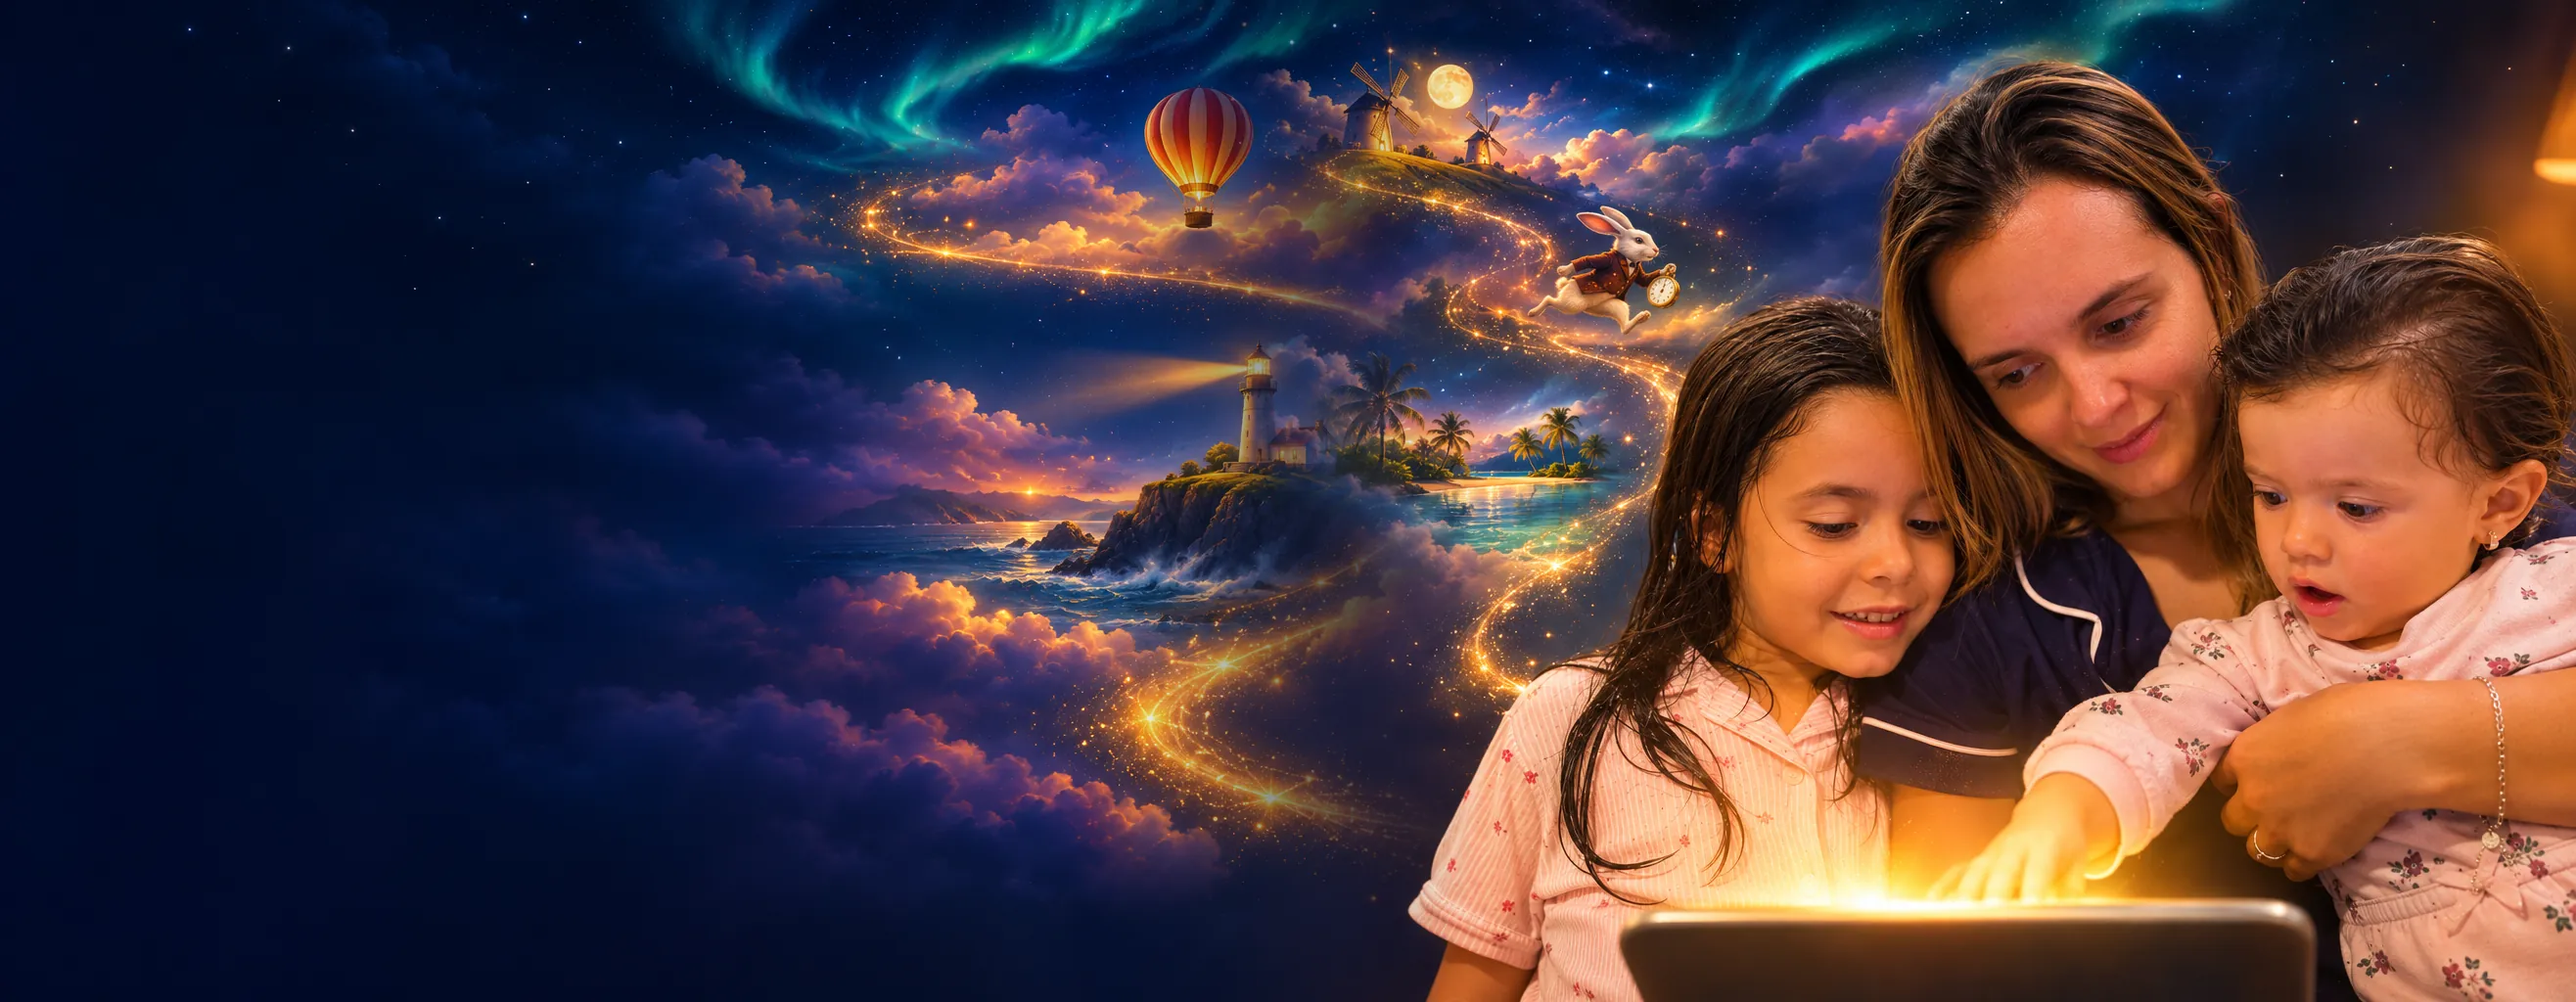
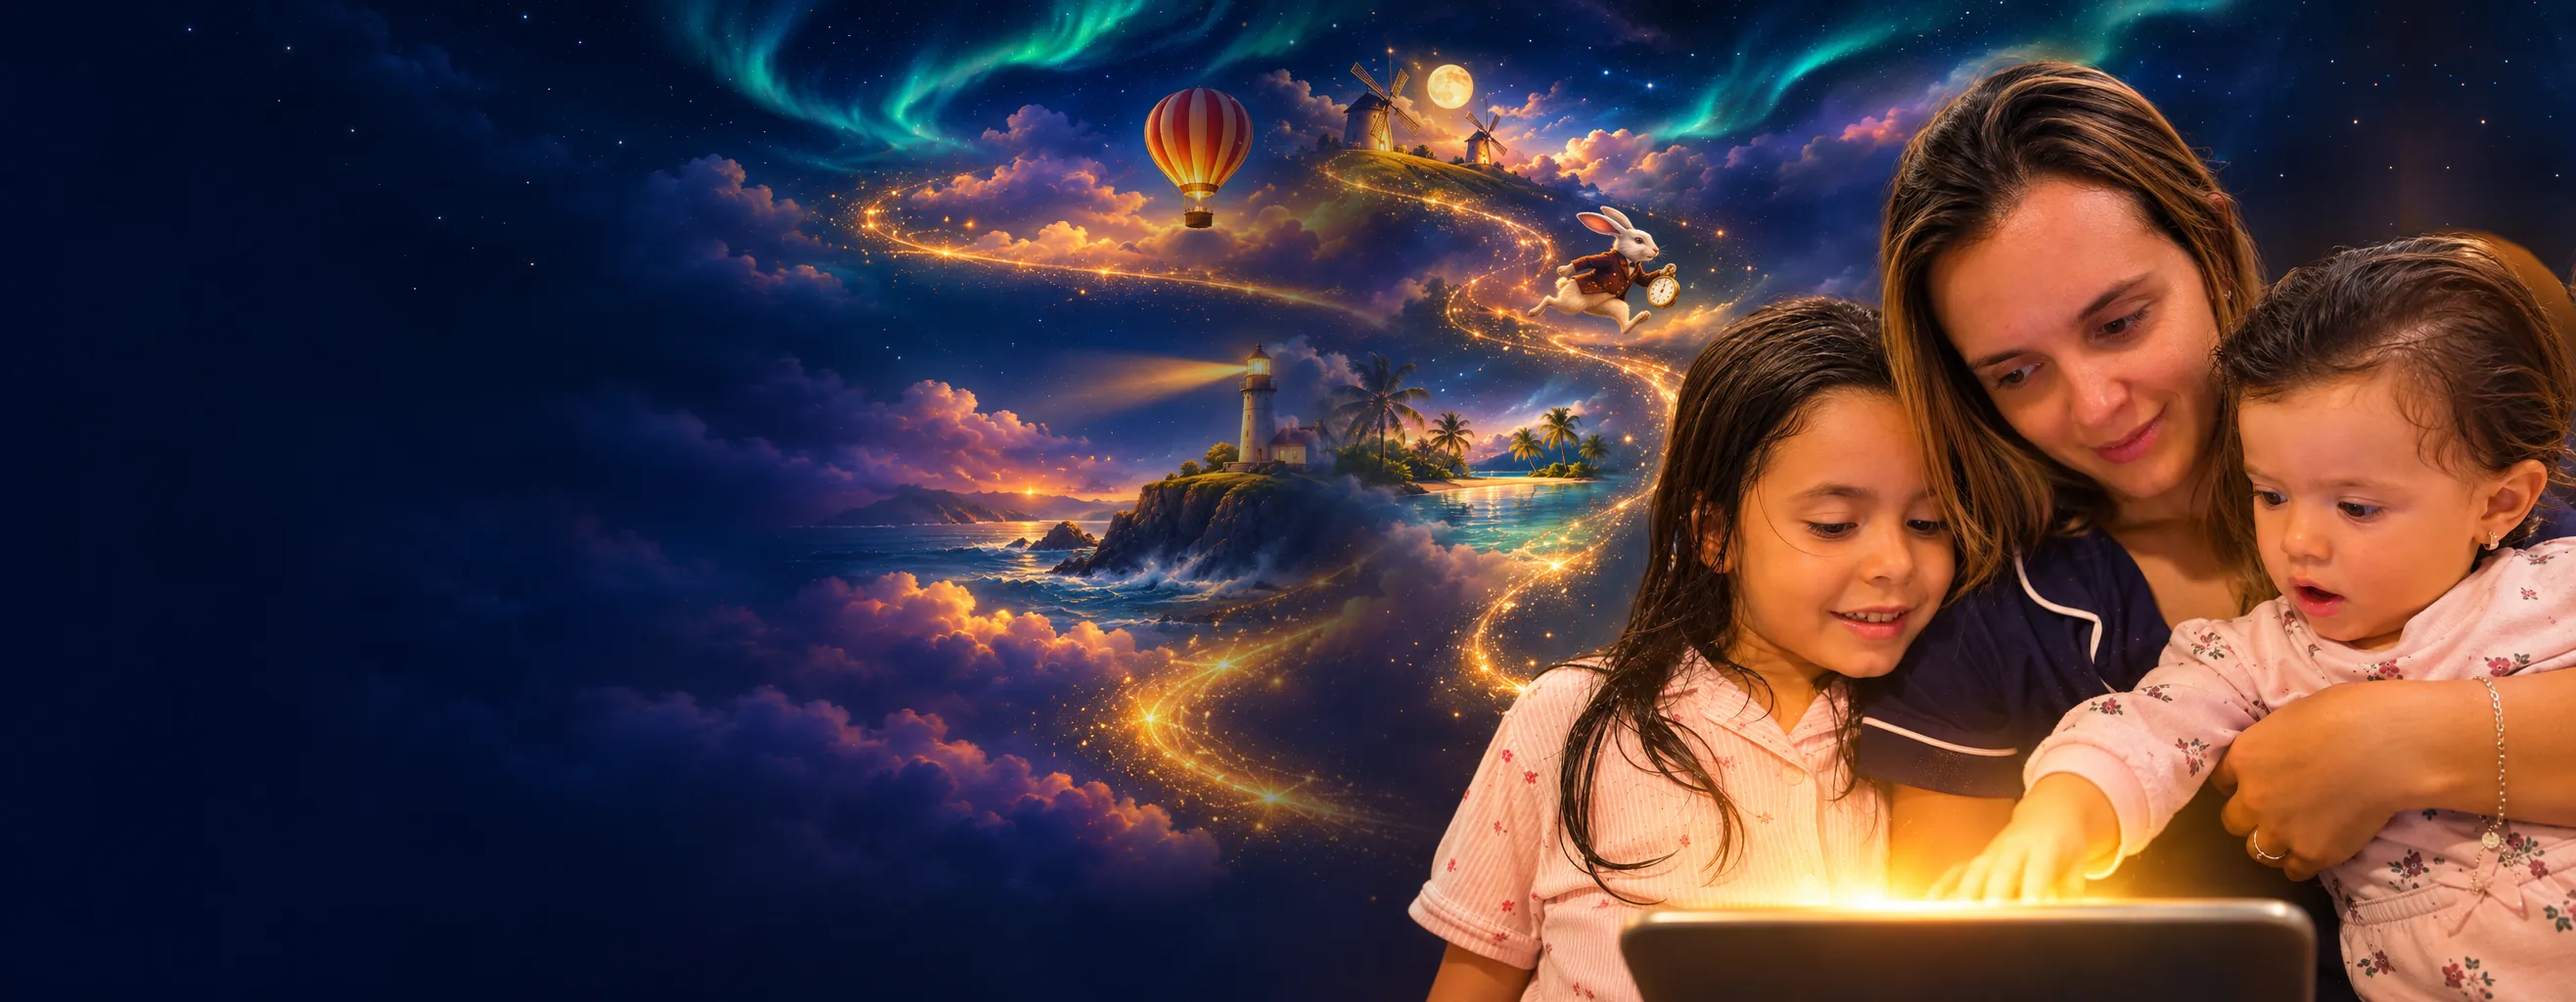
Landing: rodapé sem o abajur aceso sobre a cabeça da Maria (#147)
O canto de cima à direita (abajur e brilho laranja) foi trocado por céu estrelado
da própria imagem, seguindo o contorno do cabelo.

Claude-Session: https://claude.ai/code/session_01KvAZ7XPPHCjHbd3L7L9vJR

Changed region(s): [[0.9347, 0.0, 1.0, 0.3125]]

diff --git a/landing/index.html b/landing/index.html
@@ -807,7 +807,7 @@ details[open] summary::after{transform:rotate(180deg)}
 </section>
 
 <footer class="final">
-  <img loading="lazy" decoding="async" width="2632" height="1024" src="../images/hero/rodape-familia.webp?v=2" srcset="../images/hero/rodape-familia-1200.webp?v=2 1400w, ../images/hero/rodape-familia.webp?v=2 2632w" sizes="100vw" alt="Mãe e duas filhas lendo juntas no tablet à noite; da tela sobe um rio de luz com moinhos, um coelho com relógio, uma lagoa com palmeiras, um farol e um balão">
+  <img loading="lazy" decoding="async" width="2632" height="1024" src="../images/hero/rodape-familia.webp?v=3" srcset="../images/hero/rodape-familia-1200.webp?v=3 1400w, ../images/hero/rodape-familia.webp?v=3 2632w" sizes="100vw" alt="Mãe e duas filhas lendo juntas no tablet à noite; da tela sobe um rio de luz com moinhos, um coelho com relógio, uma lagoa com palmeiras, um farol e um balão">
   <div class="txt">
     <h2>Escolham a história de hoje à noite</h2>
     <p class="lead">R$ 19,90 por mês, para a família inteira.</p>
